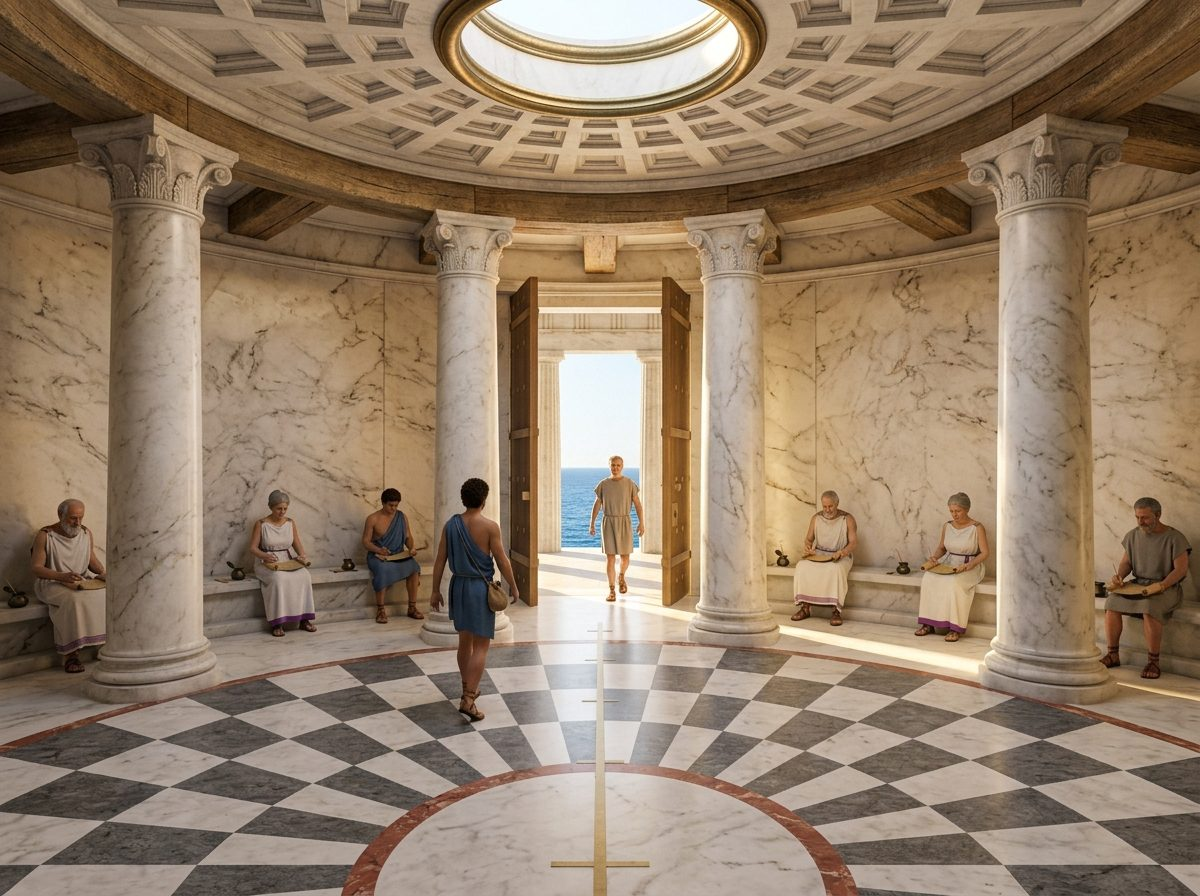
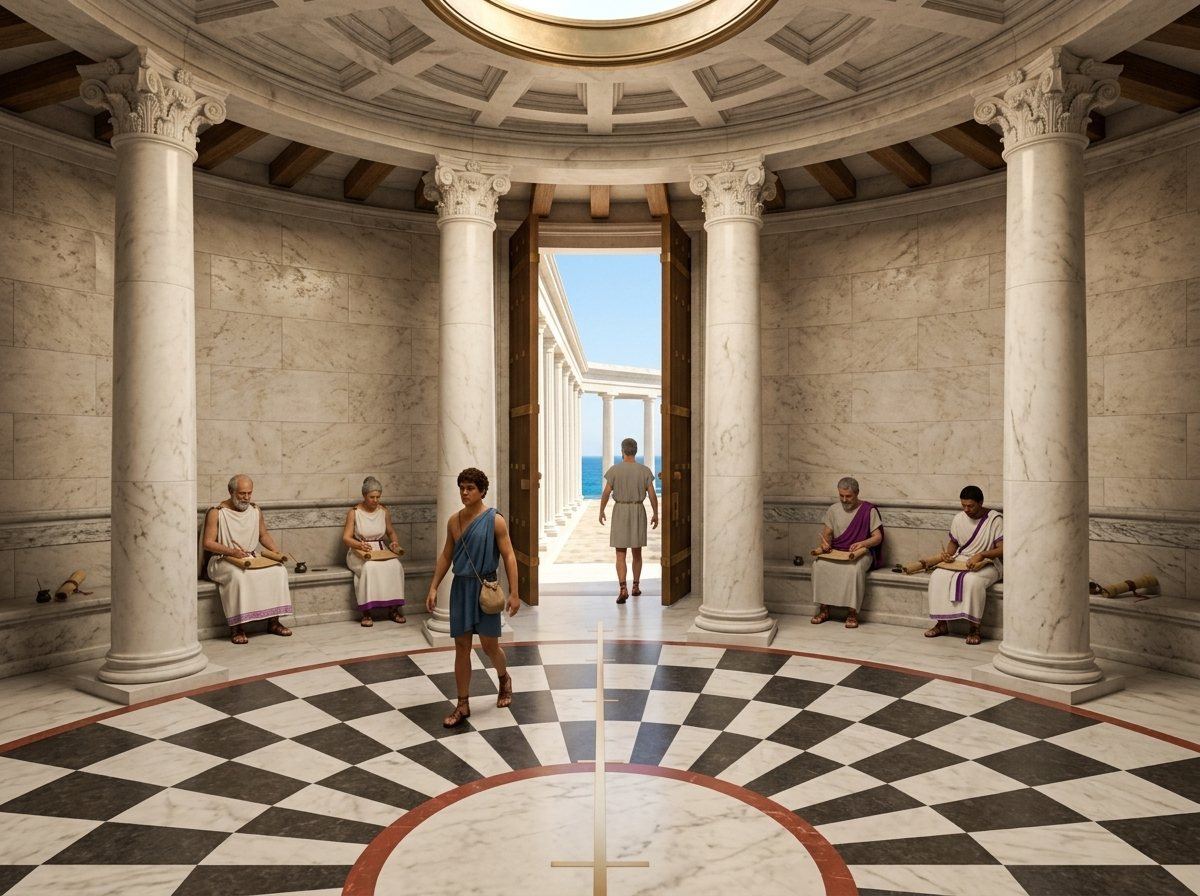
The Part-Time Parliament: photoreal scenes for the cover and p01-p07 from the previs via the Gemini API (nano banana 2); p02 re-aimed across the hall; pipeline gains GEN=gemini
Claude-Session: https://claude.ai/code/session_01YEoRcgSgrPNbMAvnxGtMh5

diff --git a/art/panels/pipeline.py b/art/panels/pipeline.py
@@ -91,7 +91,34 @@ def generate_meshy(inputs, prompt, aspect, dest):
     print(f"  {dest.relative_to(ROOT)}  task={tid}")
 
 
+def generate_gemini(inputs, prompt, aspect, dest):
+    """Nano Banana 2 (gemini-3.1-flash-image) straight from the Gemini Interactions API."""
+    parts = [{"type": "text", "text": prompt}] + [
+        {"type": "image", "mime_type": "image/png",
+         "data": base64.b64encode(Path(p).read_bytes()).decode()} for p in inputs]
+    body = {"model": "gemini-3.1-flash-image", "input": parts,
+            "response_format": {"type": "image", "aspect_ratio": aspect}}
+    req = urllib.request.Request(
+        "https://generativelanguage.googleapis.com/v1beta/interactions", method="POST",
+        data=json.dumps(body).encode(),
+        headers={"x-goog-api-key": os.environ["GEMINI_API_KEY"], "Api-Revision": "2026-05-20",
+                 "Content-Type": "application/json"})
+    try:
+        res = json.load(urllib.request.urlopen(req, timeout=300))
+    except urllib.error.HTTPError as e:
+        sys.exit(f"gemini {e.code}: {e.read().decode()[:600]}")
+    for step in res.get("steps", []):
+        for c in step.get("content", []):
+            if c.get("type") == "image":
+                dest.write_bytes(base64.b64decode(c["data"]))
+                print(f"  {dest.relative_to(ROOT)}  gemini {res.get('id')}")
+                return
+    sys.exit("gemini returned no image: " + json.dumps(res)[:600])
+
+
 def generate(inputs, prompt, aspect, dest, name):
+    if os.environ.get("GEN") == "gemini":
+        return generate_gemini(inputs, prompt, aspect, dest)
     if len(prompt) > PROMPT_MAX:
         sys.exit(f"prompt is {len(prompt)} chars (max {PROMPT_MAX})")
     if os.environ.get("GEN", "meshy") == "meshy":
